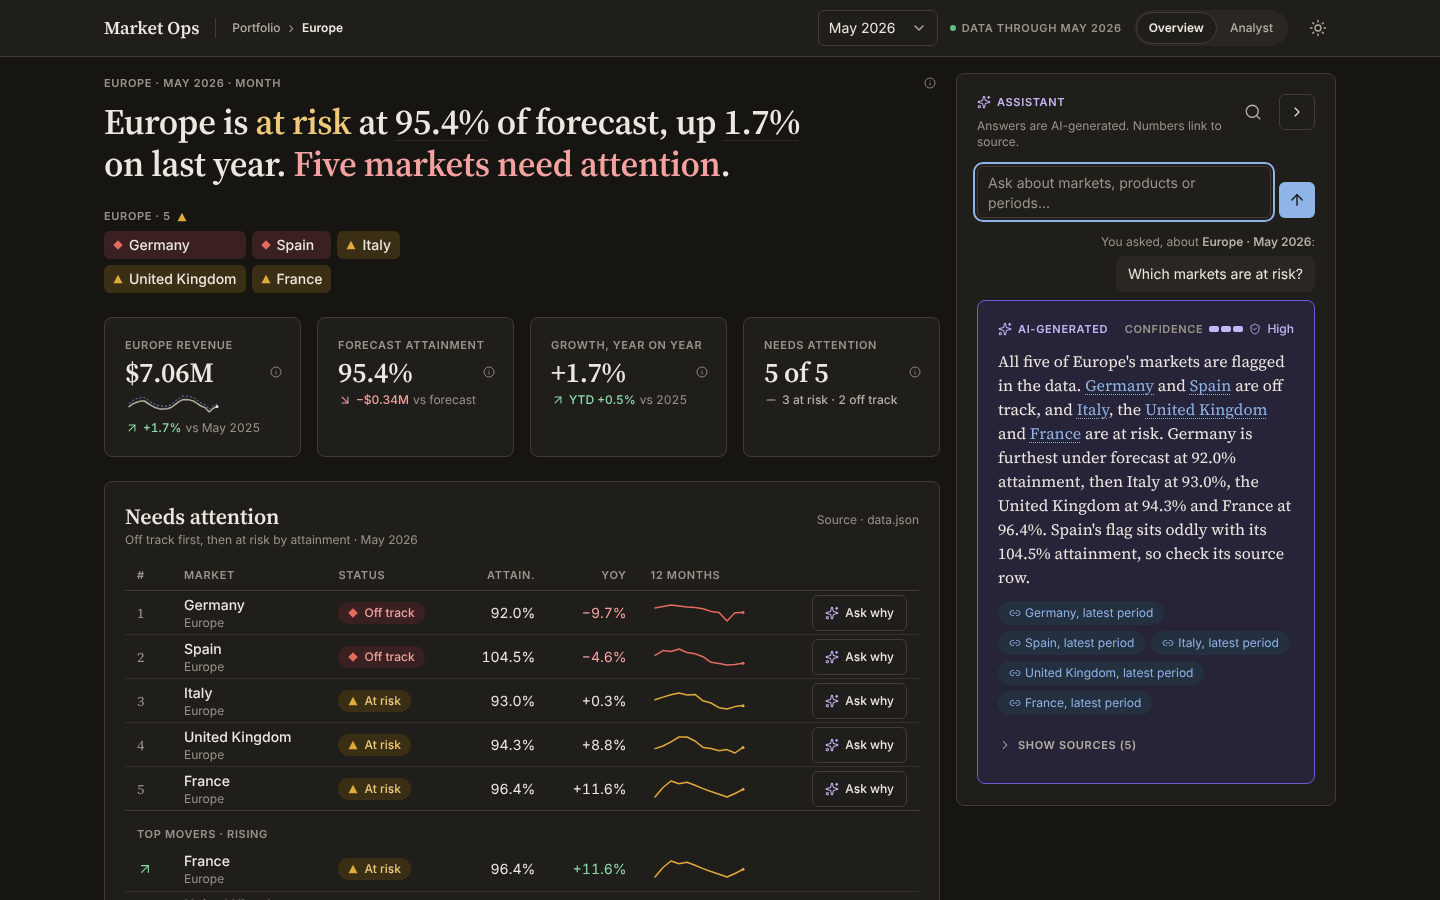
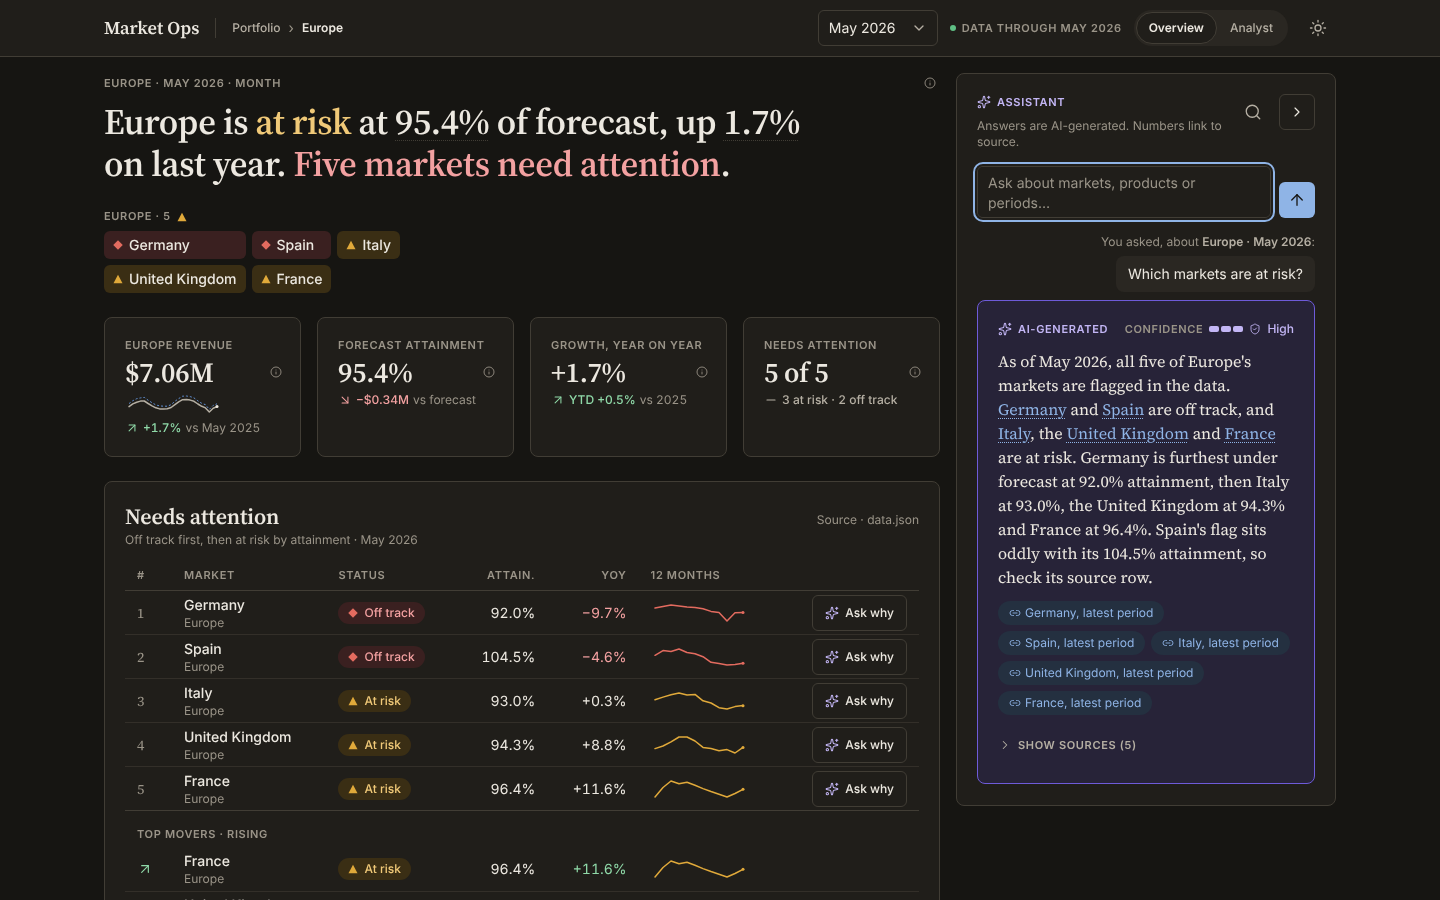
fix(assistant): answer every market's Ask why, and reject views not in the dataset
Market template now serves any market in view (heat map cells, Overview rows) except Germany, which keeps its curated answer. Unknown market, product or month returns 400. fillers folded into pickFixture; scope schema is a discriminated union.

Changed region(s): [[0.6875, 0.3733, 0.9062, 0.6533]]

diff --git a/src/lib/stream/pickFixture.ts b/src/lib/stream/pickFixture.ts
@@ -11,29 +11,55 @@ import {
   type Entity,
   type Fixture,
   type FixturesFile,
+  type Period,
 } from "@/domain";
 import { formatMoneyCompact, formatPct, formatPeriodAbbr } from "@/lib/format";
 
-/** A fixture's answer once any template is filled. */
-export type ResolvedFixture = Omit<Fixture, "template">;
+type MarketView = { entity: Extract<Entity, { kind: "market" }>; period: Period };
+
+const marketView = (context?: ChatContext): MarketView | undefined =>
+  context?.entity.kind === "market"
+    ? { entity: context.entity, period: context.period }
+    : undefined;
 
 const hasKeyword = (fixture: Fixture, q: string) =>
   (fixture.keywords ?? []).some((k) => q.includes(k));
 
 /** Whether the view the question was asked from is the one a fixture's scope is written for. */
-function scopeFits(scope: NonNullable<Fixture["scope"]>, entity: Entity): boolean {
+function scopeFits(scope: NonNullable<Fixture["scope"]>, { entity }: ChatContext): boolean {
   if (scope.entity !== entity.kind) return false;
-  if (entity.kind === "region")
-    return scope.regionId === undefined || scope.regionId === entity.regionId;
-  if (entity.kind === "market")
-    return scope.marketId === undefined || scope.marketId === entity.marketId;
-  return true;
+  switch (scope.entity) {
+    case "portfolio":
+      return true;
+    case "region":
+      return entity.kind === "region" && (!scope.regionId || scope.regionId === entity.regionId);
+    case "market":
+      return entity.kind === "market" && (!scope.marketId || scope.marketId === entity.marketId);
+  }
 }
 
 /**
- * The fixture for a question: a scoped fixture that fits the view first, then the first unscoped keyword match,
- * then the default. A question that names a market ("Why did Germany dip?") keeps its own fixture: market-scoped
- * answers are for questions that mean "this market".
+ * What is wrong with a view the request names, or undefined when every part of it is in the dataset. The
+ * schema only checks shape; a market or month that does not exist would otherwise reach the arithmetic.
+ */
+export function contextProblem(ds: Dataset, { entity, period }: ChatContext): string | undefined {
+  if (!ds.meta.periods.includes(period)) return `Unknown period ${period}`;
+  if ((entity.kind === "market" || entity.kind === "product") && !hasMarket(ds, entity.marketId)) {
+    return `Unknown market ${entity.marketId}`;
+  }
+  if (entity.kind === "product" && !ds.products.some((p) => p.id === entity.productId)) {
+    return `Unknown product ${entity.productId}`;
+  }
+  return undefined;
+}
+
+const hasMarket = (ds: Dataset, id: string) => ds.markets.some((m) => m.id === id);
+
+/**
+ * The answer for a question. A scoped fixture that fits the view wins over an unscoped keyword match, then the
+ * default. A market template stays out when the question names a different market than the one in view, and when
+ * an unscoped fixture keyed on the market in view exists (Germany's curated answer is richer than the template).
+ * The returned fixture has any template filled in.
  */
 export function pickFixture(
   file: FixturesFile,
@@ -42,45 +68,57 @@ export function pickFixture(
   context?: ChatContext,
 ): Fixture {
   const q = question.toLowerCase();
-  const namesMarket = ds.markets.some((m) => q.includes(m.name.toLowerCase()));
   const hits = file.fixtures.filter((f) => hasKeyword(f, q));
+  const view = marketView(context);
   const scoped = context
     ? hits.find(
         (f) =>
           f.scope !== undefined &&
-          scopeFits(f.scope, context.entity) &&
-          !(f.scope.entity === "market" && namesMarket),
+          scopeFits(f.scope, context) &&
+          (f.template === undefined || (view && templateSuits(ds, q, hits, view))),
       )
     : undefined;
-  return scoped ?? hits.find((f) => f.scope === undefined) ?? file.default;
+  const fixture = scoped ?? hits.find((f) => f.scope === undefined) ?? file.default;
+  // A template always comes from a scoped match, which needs a market view; the default is the unreachable fallback.
+  if (fixture.template === undefined) return fixture;
+  return view ? fillMarketMonth(ds, fixture, view) : file.default;
+}
+
+function templateSuits(
+  ds: Dataset,
+  q: string,
+  hits: readonly Fixture[],
+  { entity }: MarketView,
+): boolean {
+  const inView = ds.markets.find((m) => m.id === entity.marketId);
+  if (!inView) return false;
+  const name = inView.name.toLowerCase();
+  const namesOther = ds.markets.some((m) => m !== inView && q.includes(m.name.toLowerCase()));
+  const curated = hits.some(
+    (h) => h.scope === undefined && (h.keywords ?? []).some((k) => name.includes(k)),
+  );
+  return !namesOther && !curated;
 }
 
 /**
- * Writes a template fixture's text and citations from data.json. This is the only "intelligence" in the mock:
- * numbers are read and formatted, nothing is generated.
+ * Writes the market-month template's text and citations from data.json. This is the only "intelligence" in the
+ * mock: numbers are read and formatted, nothing is generated.
  */
-export function resolveFixture(
-  ds: Dataset,
-  fixture: Fixture,
-  context?: ChatContext,
-): ResolvedFixture {
-  const { template, ...rest } = fixture;
-  if (template === undefined) return rest;
-  if (context?.entity.kind !== "market") {
-    throw new RangeError(`Fixture ${fixture.id} needs a market view`);
-  }
-  const { entity, period } = context;
+function fillMarketMonth(ds: Dataset, fixture: Fixture, { entity, period }: MarketView): Fixture {
   const t = totals(factsFor(ds, { entity, periods: [period] }));
   const name = entityName(ds, entity);
   const previous = previousPeriod(ds, period);
   const mom = momChangePct(ds, entity, period);
+  // At the latest month the dashboard shows the market's own KPI, so the answer quotes that, not a recomputation.
+  const kpi = ds.markets.find((m) => m.id === entity.marketId)?.kpis.forecastAttainmentPct;
+  const attainment = period === ds.meta.latestPeriod && kpi !== undefined ? kpi : attainmentPct(t);
 
   const values: Record<string, string> = {
     market: name,
     period: formatPeriodAbbr(period),
     actual: formatMoneyCompact(t.actual),
     forecast: formatMoneyCompact(t.forecast),
-    attainment: formatPct(attainmentPct(t), { sign: false }),
+    attainment: formatPct(attainment, { sign: false }),
     mom: mom === undefined ? "" : `; ${formatPct(mom, { sign: true })} on the previous month`,
   };
   // A function replacer keeps "$" in the values (money) from being read as a replacement pattern.
@@ -95,5 +133,5 @@ export function resolveFixture(
     label: `${name}, ${formatPeriodAbbr(p)}`,
   });
   const citations = previous === undefined ? [cite(period)] : [cite(period), cite(previous)];
-  return { ...rest, answer: { ...fixture.answer, text, citations } };
+  return { ...fixture, answer: { ...fixture.answer, text, citations } };
 }

diff --git a/src/features/assistant/inlineMap.ts b/src/features/assistant/inlineMap.ts
@@ -7,6 +7,11 @@ export type InlinePhrase = { phrase: string; citationIndex: number };
  * Words in an answer that stand for one of its citations (preview-spec 9.4). The stream's `done` event carries no
  * fixture id, so a fixture is recognised by its citation labels joined with "|", which is unique per fixture.
  */
+/** The Europe at-risk answer's citation labels, which is how `inlineKey` recognises it. */
+const EUROPE_AT_RISK = ["Germany", "Spain", "Italy", "United Kingdom", "France"]
+  .map((n) => `${n}, latest period`)
+  .join("|");
+
 export const INLINE_MAP: Readonly<Record<string, readonly InlinePhrase[]>> = {
   "Germany, Feb 2026|Germany, Mar 2026 (largest dip)|Veltrix in Germany, Mar 2026": [
     { phrase: "early 2026", citationIndex: 0 },
@@ -19,14 +24,13 @@ export const INLINE_MAP: Readonly<Record<string, readonly InlinePhrase[]>> = {
     { phrase: "Italy", citationIndex: 2 },
     { phrase: "Brazil", citationIndex: 3 },
   ],
-  "Germany, latest period|Spain, latest period|Italy, latest period|United Kingdom, latest period|France, latest period":
-    [
-      { phrase: "Germany", citationIndex: 0 },
-      { phrase: "Spain", citationIndex: 1 },
-      { phrase: "Italy", citationIndex: 2 },
-      { phrase: "United Kingdom", citationIndex: 3 },
-      { phrase: "France", citationIndex: 4 },
-    ],
+  [EUROPE_AT_RISK]: [
+    { phrase: "Germany", citationIndex: 0 },
+    { phrase: "Spain", citationIndex: 1 },
+    { phrase: "Italy", citationIndex: 2 },
+    { phrase: "United Kingdom", citationIndex: 3 },
+    { phrase: "France", citationIndex: 4 },
+  ],
   "Germany|Italy|Brazil": [
     { phrase: "Germany", citationIndex: 0 },
     { phrase: "Italy", citationIndex: 1 },
@@ -54,16 +58,15 @@ export const SOURCES_META: Readonly<Record<string, SourcesMeta>> = {
       { claim: "Brazil at risk", assistantWord: "At risk" },
     ],
   },
-  "Germany, latest period|Spain, latest period|Italy, latest period|United Kingdom, latest period|France, latest period":
-    {
-      items: [
-        { claim: "Germany off track", assistantWord: "Off track" },
-        { claim: "Spain off track", assistantWord: "Off track" },
-        { claim: "Italy at risk", assistantWord: "At risk" },
-        { claim: "United Kingdom at risk", assistantWord: "At risk" },
-        { claim: "France at risk", assistantWord: "At risk" },
-      ],
-    },
+  [EUROPE_AT_RISK]: {
+    items: [
+      { claim: "Germany off track", assistantWord: "Off track" },
+      { claim: "Spain off track", assistantWord: "Off track" },
+      { claim: "Italy at risk", assistantWord: "At risk" },
+      { claim: "United Kingdom at risk", assistantWord: "At risk" },
+      { claim: "France at risk", assistantWord: "At risk" },
+    ],
+  },
   "Germany|Italy|Brazil": {
     withRevenue: true,
     items: [

diff --git a/tests/unit/chatRoute.test.ts b/tests/unit/chatRoute.test.ts
@@ -108,6 +108,61 @@ describe("/api/chat follows the view the question was asked from", () => {
     expect(text).toBe(fixtures.default.answer.text);
   });
 
+  it("answers a heat map cell question about the market in view, not the default", async () => {
+    const view = (marketId: string, period: string) => ({
+      entity: { kind: "market", marketId },
+      period,
+    });
+    for (const question of [
+      "Why did France's revenue dip in Feb 2026?",
+      "Why did France's revenue change in Mar 2026?",
+    ]) {
+      const { text, done } = await ask({ question, context: view("fr", "2026-02") });
+      expect(text).toMatch(/^France's revenue in Feb 2026 was /);
+      expect(done?.type === "done" && done.citations.map((c) => c.marketId)).toEqual(["fr", "fr"]);
+    }
+  });
+
+  it("answers an Overview Ask why on France about France, quoting the dashboard's own attainment", async () => {
+    const { text, done } = await ask({
+      question: "Why is France at risk?",
+      context: { entity: { kind: "market", marketId: "fr" }, period: "2026-05" },
+    });
+    expect(text).toMatch(/^France's revenue in May 2026 was .* 96\.4% attainment; /);
+    expect(done).toMatchObject({ confidence: "medium" });
+  });
+
+  const germany = { entity: { kind: "market", marketId: "de" }, period: "2026-03" };
+  const france = { entity: { kind: "market", marketId: "fr" }, period: "2026-03" };
+  it.each([
+    ["a status question in Germany", "Why is Germany off track?", germany],
+    ["a dip question in Germany", "Why did Germany's revenue dip in Mar 2026?", germany],
+    ["a question naming Germany from France", "Why did Germany's revenue dip in Mar 2026?", france],
+  ])("keeps Germany's curated answer for %s", async (_name, question, context) => {
+    expect((await ask({ question, context })).text).toBe(fixtureText("germany-dip"));
+  });
+
+  it("rejects a view that is not in the dataset with a 400, not a 500", async () => {
+    const unknownMarket = await ask({
+      question: "Why did revenue dip?",
+      context: { entity: { kind: "market", marketId: "zz" }, period: "2026-03" },
+    });
+    expect(unknownMarket.res.status).toBe(400);
+    const badMonth = await ask({
+      question: "Why did revenue dip?",
+      context: { entity: { kind: "market", marketId: "de" }, period: "2030-01" },
+    });
+    expect(badMonth.res.status).toBe(400);
+    const badProduct = await ask({
+      question: "q",
+      context: {
+        entity: { kind: "product", marketId: "de", productId: "nope" },
+        period: "2026-03",
+      },
+    });
+    expect(badProduct.res.status).toBe(400);
+  });
+
   it("rejects a body that is not a chat request", async () => {
     const { res } = await ask({ context: europe });
     expect(res.status).toBe(400);

diff --git a/src/app/api/chat/route.ts b/src/app/api/chat/route.ts
@@ -11,7 +11,7 @@
 import raw from "@/data/fixtures.json";
 import { ChatRequestSchema, FixturesFileSchema, SseEventSchema } from "@/domain";
 import { getDataset } from "@/lib/dataset";
-import { pickFixture, resolveFixture } from "@/lib/stream/pickFixture";
+import { contextProblem, pickFixture } from "@/lib/stream/pickFixture";
 
 export const runtime = "nodejs";
 
@@ -28,7 +28,9 @@ export async function POST(req: Request) {
   }
   const { question, context } = parsed.data;
   const ds = getDataset();
-  const fixture = resolveFixture(ds, pickFixture(fixtures, ds, question, context), context);
+  const problem = context ? contextProblem(ds, context) : undefined;
+  if (problem) return Response.json({ message: problem, issues: [] }, { status: 400 });
+  const fixture = pickFixture(fixtures, ds, question, context);
   const encoder = new TextEncoder();
   const send = (obj: unknown) => {
     // In development, assert every outgoing event matches the contract before it is enqueued.

diff --git a/tests/e2e/slice22.spec.ts b/tests/e2e/slice22.spec.ts
@@ -65,3 +65,17 @@ test("in Germany in March, 'Why did revenue dip?' is answered from that month's 
   await expect(series.getByRole("tooltip")).toContainText("Mar 2026");
   await expect(series.getByRole("tooltip")).toContainText("Actual$1.21M");
 });
+
+test("Ask why on a France row in the Overview answers about France", async ({ page }) => {
+  await page.goto("/");
+  await page
+    .getByRole("button", { name: /^Ask why.*France/ })
+    .first()
+    .click();
+  await answerComplete(page);
+  await expect(page.locator('[data-slot="question-echo"]')).toHaveText(
+    "You asked, about France · May 2026:Why is France at risk?",
+  );
+  await expect(page.getByText(/^France's revenue in May 2026 was /)).toBeVisible();
+  await expect(citations(page)).toHaveText(["France, May 2026", "France, Apr 2026"]);
+});

diff --git a/src/domain/stream.ts b/src/domain/stream.ts
@@ -45,11 +45,11 @@ export type ChatContext = z.infer<typeof ChatContextSchema>;
 export type ChatRequest = z.infer<typeof ChatRequestSchema>;
 
 /** The view a canned answer is written for. A fixture without a scope fits any view. */
-export const FixtureScopeSchema = z.object({
-  entity: z.enum(["portfolio", "region", "market"]),
-  regionId: RegionIdSchema.optional(),
-  marketId: z.string().optional(),
-});
+export const FixtureScopeSchema = z.discriminatedUnion("entity", [
+  z.object({ entity: z.literal("portfolio") }),
+  z.object({ entity: z.literal("region"), regionId: RegionIdSchema.optional() }),
+  z.object({ entity: z.literal("market"), marketId: z.string().optional() }),
+]);
 
 /** One canned answer in fixtures.json. */
 export const FixtureSchema = z.object({
